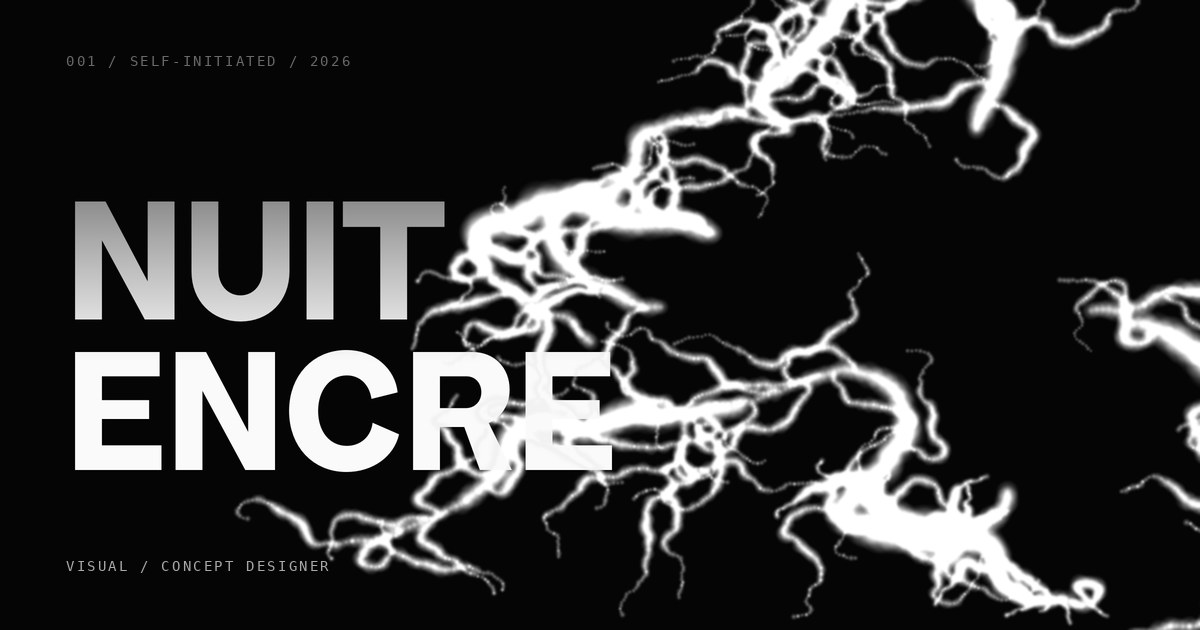
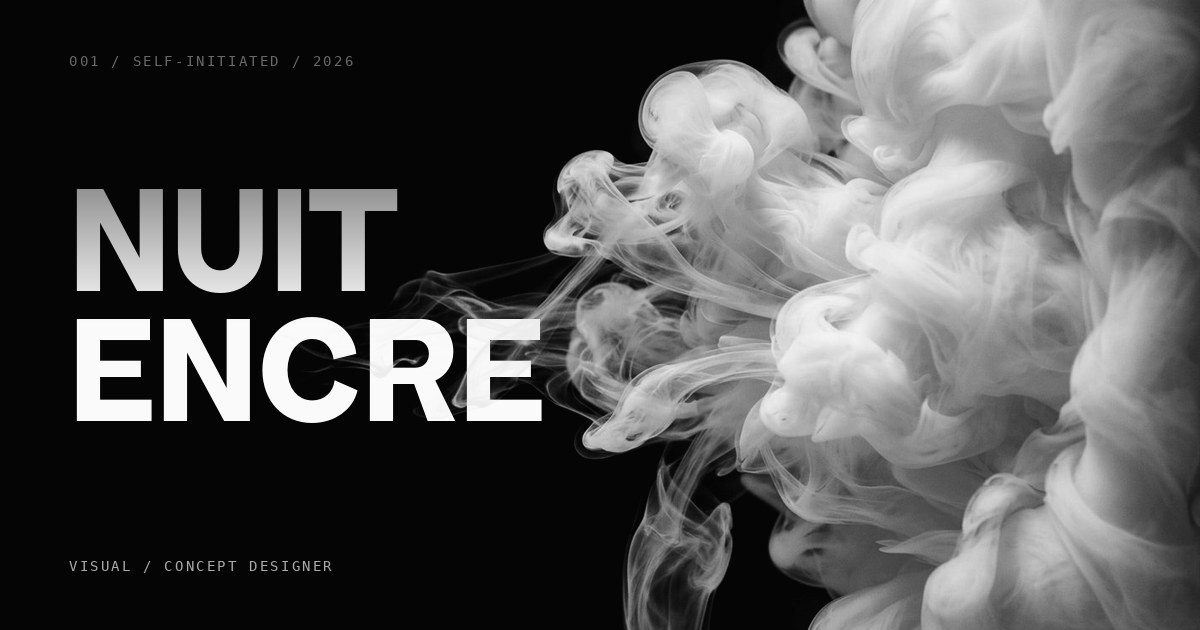
fix: kartu berbagi pakai foto tinta, bukan algoritma hero yang jadi petir

diff --git a/tools/make-og-card.py b/tools/make-og-card.py
@@ -1,137 +1,90 @@
-"""Kartu berbagi Nuit-Encre — bahasa visual identik dengan hero situs."""
-import math, os, random
+"""Kartu berbagi Nuit-Encre — 1200x630.
+
+Latar: foto tinta putih membaur di air hitam (aset, lihat README).
+Wordmark: Apfel Grotezk Fett asli dari assets/fonts, jadi hurufnya
+identik dengan yang di situs — bukan tiruan font sistem.
+
+Huruf disingkap oleh tinta: makin tebal tinta di suatu titik, makin
+banyak huruf yang termakan di situ. Prinsipnya sama dengan efek hero.
+"""
+import math, os
 from PIL import Image, ImageDraw, ImageFont, ImageFilter
 import numpy as np
 
-# Jalankan dari akar repo. Font situs (woff2) diubah ke ttf lebih dulu
-# supaya huruf di kartu identik dengan huruf di situs.
 ROOT = os.path.dirname(os.path.dirname(os.path.abspath(__file__)))
 os.chdir(ROOT)
+
+SRC = 'assets/img/src-ink.jpg'          # foto tinta sumber
+OUT = 'assets/img/og-cover.jpg'
+W, H = 1200, 630
+
+# Apfel woff2 -> ttf agar bisa dipakai Pillow
 TTF = '/tmp/ApfelFett.ttf'
 if not os.path.exists(TTF):
     from fontTools.ttLib import TTFont
-    _f = TTFont('assets/fonts/ApfelGrotezk-Fett.woff2')
-    _f.flavor = None
-    _f.save(TTF)
+    _f = TTFont('assets/fonts/ApfelGrotezk-Fett.woff2'); _f.flavor = None; _f.save(TTF)
 
-W, H = 1200, 630
-SS = 2
-CW, CH = W*SS, H*SS
-rnd = random.Random(20260825)
+# ---------- 1. latar ----------
+src = Image.open(SRC).convert('L')
+# potong ke 1.905 lalu skala; tinta tetap di kanan
+sw, sh = src.size
+tgt = W/H
+if sw/sh > tgt:
+    nw = int(sh*tgt); src = src.crop(((sw-nw)//2, 0, (sw-nw)//2+nw, sh))
+else:
+    nh = int(sw/tgt); src = src.crop((0, (sh-nh)//2, sw, (sh-nh)//2+nh))
+ink = np.asarray(src.resize((W, H), Image.LANCZOS), dtype=np.float32)/255.0
 
-# ---------- 1. tinta bercabang, port dari grow() ----------
-blobs = []
-def grow(px, py, dr, nodes, step, thick, gen):
-    for i in range(nodes):
-        u = i/nodes
-        dr += (rnd.random()-.5)*(1.25 if gen else .85)
-        px += math.cos(dr)*step
-        py += math.sin(dr)*step*.72
-        taper = math.sin(math.pi*min(1, u*1.15+.12))
-        blobs.append((px, py, thick*(.4+taper*.6)*(.7+rnd.random()*.5)))
-        if gen < 1 and rnd.random() < .17:
-            grow(px, py, dr+(1 if rnd.random()<.5 else -1)*(.5+rnd.random()*.7),
-                 max(3, int(nodes*.45)), step*.7, thick*.42, gen+1)
-        if rnd.random() < .18:
-            blobs.append((px+(rnd.random()-.5)*.1, py+(rnd.random()-.5)*.07,
-                          thick*.34*(.5+rnd.random()*.5)))
+# angkat kontras: hitam benar-benar hitam, tinta tetap lembut
+ink = np.clip((ink-0.045)/(1-0.045), 0, 1) ** 1.12
 
-# Kartu ini lanskap dan tinta di sini berperan sebagai AKSEN, bukan
-# penutup layar seperti di hero. Maka serat dibuat jauh lebih ramping
-# (thick .022-.05 vs .10-.18) dan jumlahnya diperbanyak, supaya
-# terbaca sebagai serat mengalir alih-alih satu massa gemuk.
-S = min(CW, CH)
-for k in range(9):
-    ang = (k/9)*math.pi*2 + rnd.random()*.7
-    # sebar melingkar, bukan acak murni: mencegah beberapa strand
-    # berangkat dari titik berdekatan lalu menggumpal jadi satu massa
-    rx, ry = CW*.185, CH*.30
-    cx_, cy_ = CW*.755, CH*.50
-    ox = cx_ + math.cos(ang)*rx*(.55+rnd.random()*.7)
-    oy = cy_ + math.sin(ang)*ry*(.55+rnd.random()*.7)
-    # Kunci agar terbaca sebagai SERAT, bukan manik: jari-jari harus
-    # lebih besar dari langkah (rasio r/step >= 1.8), persis seperti
-    # di hero. Serat tetap ramping, tapi langkahnya dirapatkan dan
-    # simpulnya diperbanyak agar jejaknya panjang mengalir.
-    grow(ox, oy, ang, rnd.randint(70,120),
-         S*(.006+rnd.random()*.005), S*(.020+rnd.random()*.022), 0)
-print("simpul:", len(blobs))
-
-# ---------- 2. penumpukan ADITIF dgn gradien radial (spt canvas 'lighter')
-# Inilah yang membuat tinta terbaca sebagai serat, bukan gumpalan:
-# tiap simpul lembut di tepinya dan saling MENJUMLAH, tidak saling menimpa.
-acc = np.zeros((CH, CW), dtype=np.float32)
-yy, xx = np.mgrid[0:CH, 0:CW].astype(np.float32)
-for bx, by, r in blobs:
-    if r <= 1: continue
-    x0, x1 = max(0,int(bx-r)), min(CW,int(bx+r)+1)
-    y0_, y1 = max(0,int(by-r)), min(CH,int(by+r)+1)
-    if x0>=x1 or y0_>=y1: continue
-    sy, sx_ = yy[y0_:y1, x0:x1], xx[y0_:y1, x0:x1]
-    dist = np.sqrt((sx_-bx)**2 + (sy-by)**2)/r
-    m = dist < 1.0
-    # dua colour-stop: .58 di pusat, .22 di 45%, 0 di tepi
-    v = np.where(dist < .45,
-                 .58 + (.22-.58)*(dist/.45),
-                 .22*(1-(dist-.45)/.55))
-    acc[y0_:y1, x0:x1] += np.where(m, np.clip(v,0,None), 0)
-ink_a = np.clip(acc, 0, 1)
-ink_a = np.asarray(Image.fromarray((ink_a*255).astype(np.uint8))
-                   .filter(ImageFilter.GaussianBlur(CW*0.0007)), dtype=np.float32)/255.0
-print("cakupan tinta >0.5:", round(float((ink_a>.5).mean())*100,1), "%")
-
-# ---------- 3. wordmark Apfel asli ----------
-def fit(text, target_w):
-    lo, hi = 10, 600
+# ---------- 2. wordmark ----------
+def fit(t, target):
+    lo, hi = 10, 400
     while lo < hi:
-        mid = (lo+hi+1)//2
-        f = ImageFont.truetype('/tmp/ApfelFett.ttf', mid)
-        b = f.getbbox(text)
-        if b[2]-b[0] <= target_w: lo = mid
-        else: hi = mid-1
+        m = (lo+hi+1)//2
+        f = ImageFont.truetype(TTF, m); b = f.getbbox(t)
+        if b[2]-b[0] <= target: lo = m
+        else: hi = m-1
     return lo
 
-PAD = int(CW*.055)
-box_w = int(CW*.46)
-fs = min(fit("NUIT", box_w), fit("ENCRE", box_w))
-f = ImageFont.truetype('/tmp/ApfelFett.ttf', fs)
-
-wm = Image.new('L', (CW, CH), 0)
-dw = ImageDraw.Draw(wm)
-line_h = int(fs*.82)
+PAD = int(W*.058)
+fs = min(fit("NUIT", int(W*.40)), fit("ENCRE", int(W*.40)))
+f  = ImageFont.truetype(TTF, fs)
+wm = Image.new('L', (W, H), 0); d = ImageDraw.Draw(wm)
+lh = int(fs*.82)
 b1, b2 = f.getbbox("NUIT"), f.getbbox("ENCRE")
-y0 = int(CH*.32)
-dw.text((PAD-b1[0], y0-b1[1]), "NUIT",  font=f, fill=255)
-dw.text((PAD-b2[0], y0+line_h-b2[1]), "ENCRE", font=f, fill=255)
+y0 = int(H*.30)
+d.text((PAD-b1[0], y0-b1[1]),    "NUIT",  font=f, fill=255)
+d.text((PAD-b2[0], y0+lh-b2[1]), "ENCRE", font=f, fill=255)
 wm_a = np.asarray(wm, dtype=np.float32)/255.0
-print("ukuran huruf:", fs)
 
-# ---------- 4. singkap: gradien vertikal spt CSS, digerus tinta ----------
-ys = np.linspace(0, 1, CH, dtype=np.float32)[:, None]
-top_wm, bot_wm = y0/CH, (y0+line_h+fs*.78)/CH
-t = np.clip((ys-top_wm)/(bot_wm-top_wm), 0, 1)
-vert = np.clip(t*1.05+.42, 0, 1)   # dasar .42 agar puncak huruf tetap terbaca
-keep = np.clip(vert - ink_a*0.42*(1.0-vert*0.55), 0, 1) ** 0.68
-wm_final = wm_a * keep
+# ---------- 3. singkap ----------
+# gradien vertikal (bawah pekat -> atas luruh), digerus oleh tinta
+ys = np.linspace(0, 1, H, dtype=np.float32)[:, None]
+top, bot = y0/H, (y0+lh+fs*.78)/H
+t = np.clip((ys-top)/(bot-top), 0, 1)
+vert = np.clip(t*1.02+.46, 0, 1)
+keep = np.clip(vert - ink*0.62*(1.0-vert*0.5), 0, 1) ** 0.70
+wm_f = wm_a * keep
 
-# ---------- 5. susun ----------
-out = np.zeros((CH, CW, 3), dtype=np.float32)
-out[:] = np.array([5,5,5], dtype=np.float32)/255.0
-pure = np.array([250,250,250], dtype=np.float32)/255.0
-out += np.dstack([ink_a]*3)*pure
-a3 = np.dstack([wm_final]*3)
-out = out*(1-a3) + a3*pure
-img = Image.fromarray((np.clip(out,0,1)*255).astype(np.uint8), 'RGB').resize((W,H), Image.LANCZOS)
+# ---------- 4. susun ----------
+pure = np.array([250, 250, 250], dtype=np.float32)/255.0
+out  = np.zeros((H, W, 3), dtype=np.float32) + np.array([5,5,5],dtype=np.float32)/255.0
+out += np.dstack([ink]*3) * pure
+a3   = np.dstack([wm_f]*3)
+out  = out*(1-a3) + a3*pure
+img  = Image.fromarray((np.clip(out,0,1)*255).astype(np.uint8), 'RGB')
 
-# ---------- 6. caption ----------
+# ---------- 5. caption ----------
 dd = ImageDraw.Draw(img)
 mono = ImageFont.truetype('/usr/share/fonts/truetype/dejavu/DejaVuSansMono.ttf', 14)
 def track(xy, s, fill, sp=2.6):
     x, y = xy
     for ch in s:
-        dd.text((x,y), ch, font=mono, fill=fill); x += dd.textlength(ch,font=mono)+sp
-p = int(W*.055)
-track((p, int(H*.085)), "001 / SELF-INITIATED / 2026", (104,104,104))
-track((p, H-int(H*.115)), "VISUAL / CONCEPT DESIGNER", (168,168,168))
-img.save('assets/img/og-cover.jpg', quality=88, optimize=True)
-print("tersimpan")
+        dd.text((x, y), ch, font=mono, fill=fill); x += dd.textlength(ch, font=mono)+sp
+track((PAD, int(H*.085)),      "001 / SELF-INITIATED / 2026", (104,104,104))
+track((PAD, H-int(H*.115)),    "VISUAL / CONCEPT DESIGNER",   (170,170,170))
+
+img.save(OUT, quality=88, optimize=True)
+print("tersimpan", OUT, os.path.getsize(OUT), "B | huruf", fs)

diff --git a/tools/README.md b/tools/README.md
@@ -2,26 +2,30 @@
 
 ## make-og-card.py
 
-Membuat ulang `assets/img/og-cover.jpg` (kartu berbagi 1200×630).
+Membuat ulang `assets/img/og-cover.jpg` — kartu berbagi 1200×630 yang
+muncul saat link situs dikirim ke WhatsApp, X, atau LinkedIn.
 
-Kartu ini memakai bahasa visual yang sama dengan hero situs: wordmark
-Apfel Grotezk Fett yang disingkap oleh tinta bercabang dari algoritma
-`grow()` di `assets/js/main.js`.
+**Bahan:**
 
-Jalankan:
+- `assets/img/src-ink.jpg` — foto tinta putih membaur di air hitam.
+  Sisi kirinya sengaja hampir hitam total supaya ada ruang untuk
+  wordmark; kalau menggantinya, pastikan sifat itu tetap ada.
+- `assets/fonts/ApfelGrotezk-Fett.woff2` — dikonversi ke TTF otomatis,
+  jadi huruf di kartu identik dengan huruf di situs.
+
+**Jalankan:**
 
     python3 -m pip install --break-system-packages fonttools brotli pillow numpy
     python3 tools/make-og-card.py
 
-Skrip mengonversi `assets/fonts/ApfelGrotezk-Fett.woff2` ke
-`/tmp/ApfelFett.ttf` lebih dulu, jadi huruf di kartu identik dengan
-huruf di situs.
+Bisa dipanggil dari direktori mana pun; skrip pindah sendiri ke akar repo.
 
-Dua angka yang menentukan hasilnya:
+**Catatan penyetelan** — `vert = t*1.02 + .46`. Angka `.46` itu lantai
+keterbacaan: menurunkannya membuat baris NUIT mulai lenyap ditelan
+tinta. Pengali `0.62` pada `ink` mengatur seberapa dalam tinta menggerus
+huruf.
 
-- **rasio jari-jari terhadap langkah** harus >= 1.8, kalau tidak simpul
-  tidak bersentuhan dan tinta terbaca sebagai manik-manik, bukan serat
-- **`vert`** dasar 0.42 menjaga puncak huruf tetap terbaca; kalau
-  diturunkan, baris NUIT mulai lenyap
-
-Seed dikunci di `20260825` supaya hasilnya dapat diulang.
+**Riwayat:** versi sebelumnya mencoba menggambar tinta secara prosedural
+memakai algoritma `grow()` dari `main.js`. Parameter itu disetel untuk
+kanvas potret di HP dan menghasilkan bentuk seperti petir di kanvas
+lanskap — ditinggalkan, diganti foto.
